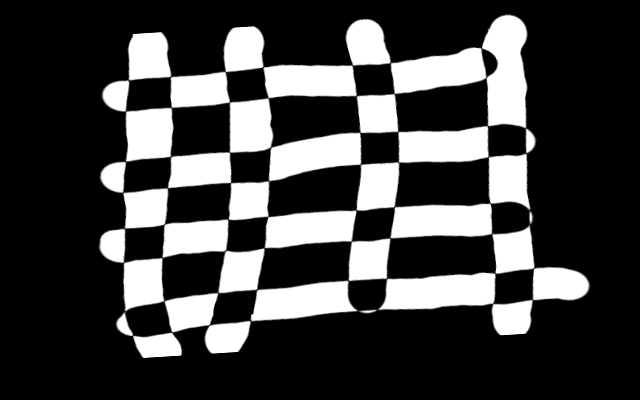
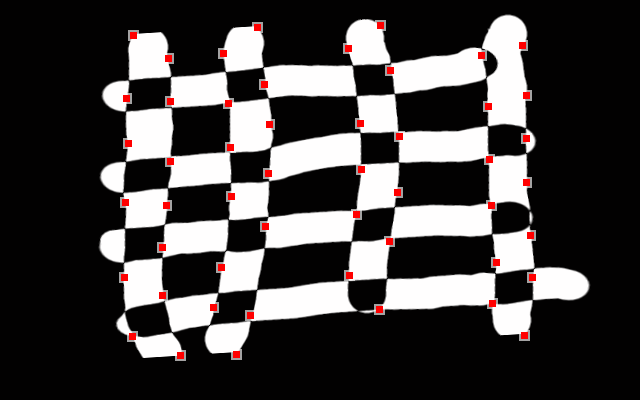
poprawki + nalozenie poi na 4strips

diff --git a/raport/raport.tex b/raport/raport.tex
@@ -69,7 +69,7 @@ zbiór punktów żądaną określoną wielkość. Proces wyszukiwania ciekawych 
 \subfloat[gradient, $d = 3$]{\includegraphics[width=5.75cm,keepaspectratio=true]{./noisy-grad-3.png}}\\
 \subfloat[gradient, $d = 8$]{\includegraphics[width=5.75cm,keepaspectratio=true]{./noisy-grad-8.png}}\hspace{5mm}
 \subfloat[gradient, łącznie]{\includegraphics[width=5.75cm,keepaspectratio=true]{./noisy-grad.png}}\\
-\subfloat[znalezione punkty]{\includegraphics[width=5.75cm,keepaspectratio=true]{./noisy-pois.png}}
+\subfloat[znalezione punkty]{\includegraphics[width=5.75cm,keepaspectratio=true]{./noisy-pois.png}\label{noisypois}}
 \caption{Proces wyszukiwania punktów charakterystycznych}\label{poisrch}
 \end{figure}
 
@@ -299,8 +299,8 @@ program przechodzi większość nieskomplikowanych testów poprawnie. Baza słó
 car cut bra sex six jeb map rap two bar sut.
 
 \paragraph{Słowo cut}
-W tym teście spróbujemy rozszyfrować słowo cut napisane inną czcionką. Jest bardziej pochyła i ma cieńszą linię. Test uznajemy za udany, dopasowanie słowa
-cut napisaego różnymi czcionkami przestawione jest na rysunku \ref{cut}. Zgodna z oczekiwaniami jest także niewielka odległość słów cut i sut -- w końcu
+W tym teście spróbujemy rozszyfrować słowo cut napisane inną czcionką: jest bardziej pochyła i ma cieńszą linię. Test uznajemy za udany, dopasowanie słowa
+cut napisanego różnymi czcionkami przestawione jest na rysunku \ref{cut}. Zgodna z oczekiwaniami jest także niewielka odległość słów cut i sut -- w końcu
 mają one dwie litery wspólne.
 \begin{verbatim}
 cut, 3letters (-10.864353)
@@ -312,7 +312,7 @@ rap, 3letters (-14.585580)
 
 \paragraph{Słowo jeb}
 W tym teście zapytaniem jest słowo jeb, obrócone o 90 stopni napisane pochyłą czcionką. Nasz algorytm znajduje poprawne dopasowanie (rys. \ref{jeb}), 
-lecz wyższą wartość funkcji celu osiąga słowo sex (rys. \ref{jeb_sex}). Jednak wyniki są zaskakujące. Udało nam się wychwycić słabą stronę algorytmu:
+lecz wyższą wartość funkcji celu osiąga słowo sex (rys. \ref{jeb_sex}). Wynik ten może być zaskakujący. Udało nam się wychwycić słabą stronę algorytmu:
 kształt jest inny, a przypadkowo dopasował się wyjątkowo dobrze. Niestety, trudno takich błędów się pozbyć. W tym teście nie uzyskaliśmy optymalnego
 wyniku, jednak oczekiwane słowo znajduje się w pierwszej trójce propozycji.
 \begin{verbatim}
@@ -331,18 +331,20 @@ cut, 3letters (-11.646334)
 \end{figure}
 
 \subsection{Rozpoznawanie obrazów zaszumionych}
-Wykonaliśmy też kilka eksperymentów z obrazkami zaszumionymi. Te jednak okazały się całkowitą klapą. Z powodu sporego szumu tła zawodzi wyszukiwanie punktów charakterystycznych.
-Już na obrazku na Rysunku 2 (e) jest kilka punktów, które nie powinny się pojawić (nie leżące na krawędzi interesującego nas czarnego obszaru). 
-Niestety, szum tła z punktu widzenia algorytmu jest istotny -- dopiero ludzi mózg jest w stanie dostrzec, że tak naprawdę można go zignorować i to co jest istotne, to jedynie czarne obszary.
+
+Wykonaliśmy też kilka eksperymentów z obrazkami zaszumionymi. Te jednak okazały się całkowitą klapą. Z powodu sporego szumu tła zawodzi wyszukiwanie
+punktów charakterystycznych. Już na obrazku na rys. \ref{noisypois} jest kilka punktów, które nie powinny się pojawić (nie leżące na krawędzi
+interesującego nas czarnego obszaru). Niestety, szum tła z punktu widzenia algorytmu jest istotny -- dopiero ludzi mózg jest w stanie dostrzec,
+że tak naprawdę można go zignorować i to co jest istotne, to jedynie czarne obszary.
 
 \subsection{Rozpoznawanie geometrii na przykładzie poczwórnych pasków}
-W tym paragrafie omówimy kilka benchmarków geometrycznych.
-W bazie obrazków znajdują się takie figury jak: gwiazda 4-ramienna, 3 paski, 4 paski, 5 pasków, kwadrat 4 na 4 z kropek, kwadrat pełen, kwadrat z wyciętym środkiem.
-Jednym z nich jest prosta próba dopasowania kwadratu do rombu - szczegółowo zostanie ona przedstawiona w rozdziale następnym, teraz skupmy się na rzeczy trudniejszej.
-Przeprowadziliśmy testy polegające na odpowiadanie na zapytania będące również paskami, jednak narysowanymi w inny sposób.
-Dla uwypuklenia naszej argumentacji, w tym miejscu zmieniliśmy parametr cfgPOIcount z 60 na 50.
-Test ten działa ``w kratkę''; mamy tutaj bowiem do czynienia z dwoma silnymi maksimami lokalnymi: paski nakrywające się (poprawnie) i paski ustawione prostopadle do siebie (niepoprawnie).
-W większości przypadków algorytm zwraca poprawną odpowiedź:
+
+W tym paragrafie omówimy kilka benchmarków geometrycznych. W bazie obrazków znajdują się takie figury jak: gwiazda 4-ramienna, 3 paski, 4 paski,
+5 pasków, kwadrat 4 na 4 z kropek, kwadrat pełen, kwadrat z wyciętym środkiem. Jednym z nich jest prosta próba dopasowania kwadratu do
+rombu -- szczegółowo zostanie ona przedstawiona w rozdziale następnym, teraz skupmy się na rzeczy trudniejszej. Przeprowadziliśmy testy polegające
+na odpowiadanie na zapytania będące również paskami, jednak narysowanymi w inny sposób. Dla uwypuklenia naszej argumentacji, w tym miejscu zmieniliśmy
+parametr \texttt{poiCount} z 60 na 50. Test ten działa ,,w kratkę'', mamy tutaj bowiem do czynienia z dwoma silnymi maksimami lokalnymi: paski
+nakrywające się (poprawnie) i paski ustawione prostopadle do siebie (niepoprawnie). W większości przypadków algorytm zwraca poprawną odpowiedź:
 \begin{verbatim}
 four_strips, geometry (-16.995546)
 sixteen_dots, geometry (-17.608957)
@@ -350,7 +352,6 @@ five_strips, geometry (-21.416338)
 star4, geometry (-22.383705)
 three_strips, geometry (-23.276367)
 \end{verbatim}
-
 Niestety, zdarza się także, że uda nam się trafić w to drugie maksimum. Wówczas wynik działania wygląda mniej więcej tak:
 \begin{verbatim}
 sixteen_dots, geometry (-17.669998)
@@ -359,14 +360,14 @@ four_strips, geometry (-21.770014)
 three_strips, geometry (-22.251009)
 star4, geometry (-23.067333)
 \end{verbatim}
-Poprawne i niepoprawne dopasowania pokazane są na \ref{strips4good} oraz \ref{strips4bad}. Zjawisko staje się bardziej zrozumiałe, jeśli spojrzymy na punkty charakterystyczne --
-\ref{strips4_POI}. Na pierwszy rzut oka nie widać, że przedstawiają cztery pionowe paski - bardziej 50 punktów rozrzuconych dość równomiernie po obrazie, ułożonych w kwadrat.
-Ponieważ dla poziomych pasków rozkład punktów charakterystycznych wygląda podobnie, jest to również silne maksimum lokalne.
+Poprawne i niepoprawne dopasowania pokazane są na rys. \ref{strips4good} oraz rys. \ref{strips4bad}. Zjawisko staje się bardziej zrozumiałe, jeśli
+spojrzymy na punkty charakterystyczne. Na pierwszy rzut oka nie widać, że przedstawiają cztery pionowe paski -- bardziej 50 punktów rozrzuconych dość
+równomiernie po obrazie, ułożonych w kwadrat. Ponieważ dla poziomych pasków rozkład punktów charakterystycznych wygląda podobnie, jest to również
+silne maksimum lokalne.
 
 \begin{figure}\centering
 \subfloat[źle]{\includegraphics[width=6cm,keepaspectratio=true]{./bad-diff-4strips.png}\label{strips4bad}}\hspace{5mm}
-\subfloat[dobrze]{\includegraphics[width=6cm,keepaspectratio=true]{./good-diff-4strips.png}\label{strips4good}}\\
-\subfloat[POI dla \texttt{strips4\_2}]{\includegraphics[width=6cm,keepaspectratio=true]{./4strips-pois.png}\label{strips4_POI}}\\
+\subfloat[dobrze]{\includegraphics[width=6cm,keepaspectratio=true]{./good-diff-4strips.png}\label{strips4good}}
 \caption{Dopasowania \texttt{strips4} do \texttt{strips4\_2}}
 \end{figure}
 
@@ -437,7 +438,7 @@ z prostoty testu.
 \normalsize\caption{Wpływ współczynnika przetrwania na ewolucję.}\label{surv}
 \end{figure}
 
-\section{Posumowanie: wnioski końcowe i perspektywy rozwoju}
+\section{Wnioski końcowe i perspektywy rozwoju}
 Nasz algorytm bezbłędnie działa na testach benchmarkowych, doskonale radzi sobie też z testami, w których obrazek z zapytania jest bardzo podobny do któregoś z bazowych.
 W przypadku testów, na których nie istnieje dobre przekształcenie obrazka bazowego na obrazek z zapytania, algorytm bardzo dobrze radzi sobie z testami, 
 w których nie ma wielu silnych minimów lokalnych. W przypadku testów trudniejszych nie jest niezawodny, ale niejednokrotnie zaskoczył nas poprawnością wyniku i ``błyskotliwością'' dopasowania.
